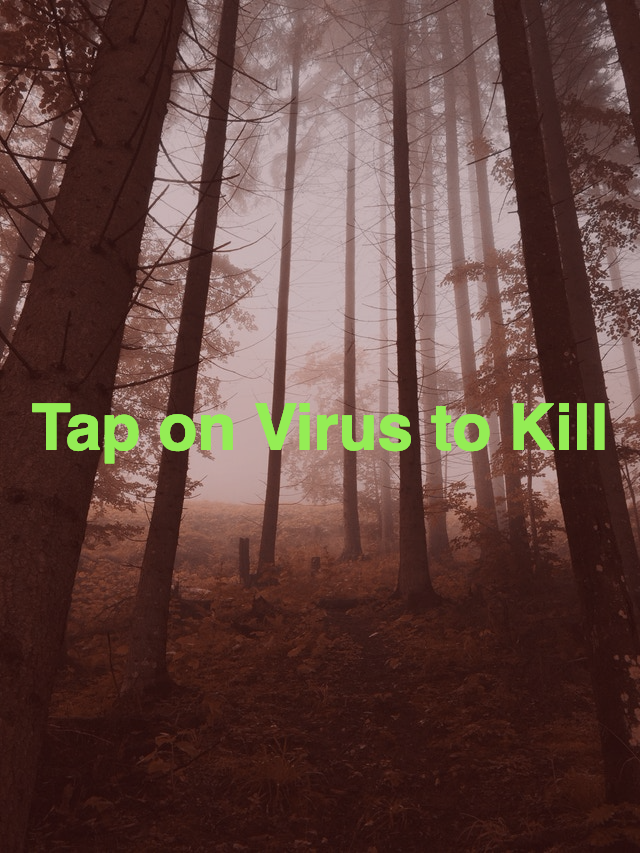
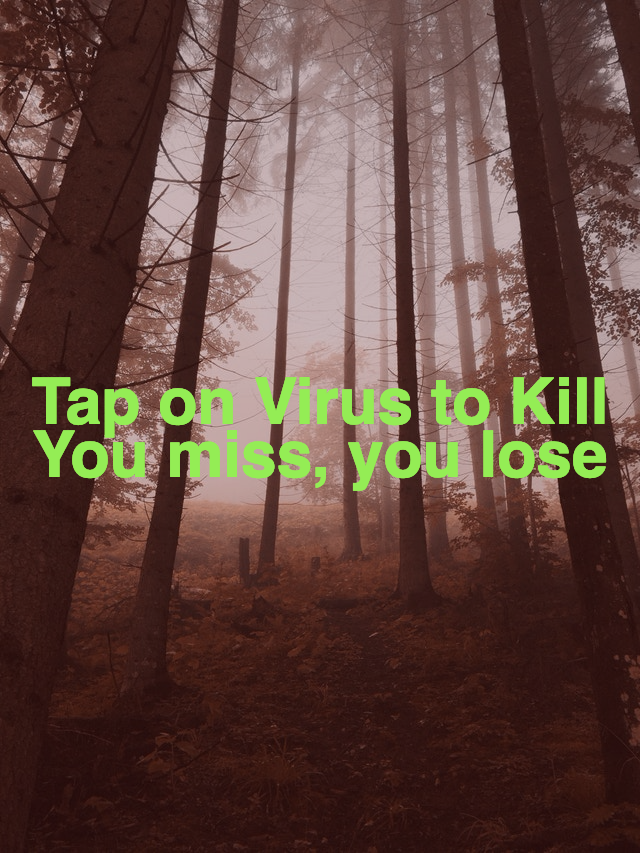
[C/Game] Include inst view

Changed region(s): [[0.0312, 0.4267, 0.9688, 0.5791]]

diff --git a/lib/game/game.dart b/lib/game/game.dart
@@ -10,6 +10,7 @@ import 'package:experiments_with_web/game/controllers/virus_spawner.dart';
 import 'package:experiments_with_web/game/utilities/constants.dart';
 import 'package:experiments_with_web/game/utilities/helpers.dart';
 import 'package:experiments_with_web/game/views/home_view.dart';
+import 'package:experiments_with_web/game/views/inst_view.dart';
 import 'package:experiments_with_web/game/views/lost_view.dart';
 
 import 'package:flame/flame.dart';
@@ -53,6 +54,9 @@ class GameTime extends Game with TapDetector {
   GameView activeView = GameView.home;
   HomeView homeView;
   LostView lostView;
+  InstView instView;
+
+  // ADD BUTTONS
   GameStartButton startButton;
   GameInstructionButton instButton;
 
@@ -75,6 +79,7 @@ class GameTime extends Game with TapDetector {
     // VIEWS
     homeView = HomeView(gameTime: this);
     lostView = LostView(gameTime: this);
+    instView = InstView(gameTime: this);
   }
 
   @override
@@ -99,6 +104,10 @@ class GameTime extends Game with TapDetector {
     if (activeView == GameView.home || activeView == GameView.lost) {
       startButton.render(canvas);
       instButton.render(canvas);
+    }
+
+    if (activeView == GameView.howToPlay) {
+      instView.render(canvas);
     }
   }
 
@@ -142,6 +151,14 @@ class GameTime extends Game with TapDetector {
     print('TAP DOWN OFFSET >>> $_touchPointOffset');
     // FOR START BUTTON TAP...
     bool _isHandled = false;
+
+    // FOR INST IMAGE
+    if (!_isHandled) {
+      if (activeView == GameView.howToPlay) {
+        activeView = GameView.home;
+        _isHandled = true;
+      }
+    }
 
     // FOR START BUTTON
     if (!_isHandled && startButton.startRect.contains(_touchPointOffset)) {

diff --git a/lib/game/views/inst_view.dart b/lib/game/views/inst_view.dart
@@ -1,0 +1,32 @@
+import 'package:experiments_with_web/game/game.dart';
+import 'package:experiments_with_web/game/utilities/constants.dart';
+
+import 'package:flame/sprite.dart';
+
+import 'package:flutter/material.dart';
+
+class InstView {
+  InstView({
+    @required this.gameTime,
+  }) {
+    titleInstRect = Rect.fromLTWH(
+        gameTime.screenSize.width / 6,
+        gameTime.screenSize.height / 4,
+        gameTime.screenSize.width / 1.5,
+        gameTime.screenSize.height / 6);
+
+    titleInstSprite = Sprite(GameUtils.instructions);
+  }
+
+  final GameTime gameTime;
+
+  // COMPONENT VARIABLES
+  Rect titleInstRect;
+  Sprite titleInstSprite;
+
+  void render(Canvas c) {
+    titleInstSprite.renderRect(c, titleInstRect);
+  }
+
+  void update(double t) {}
+}
